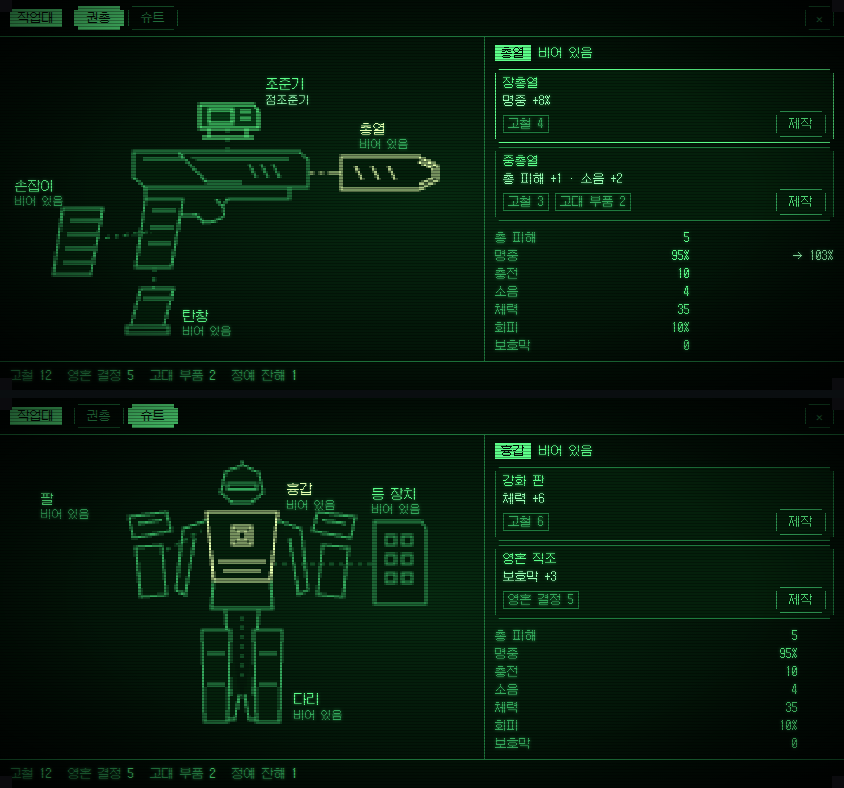
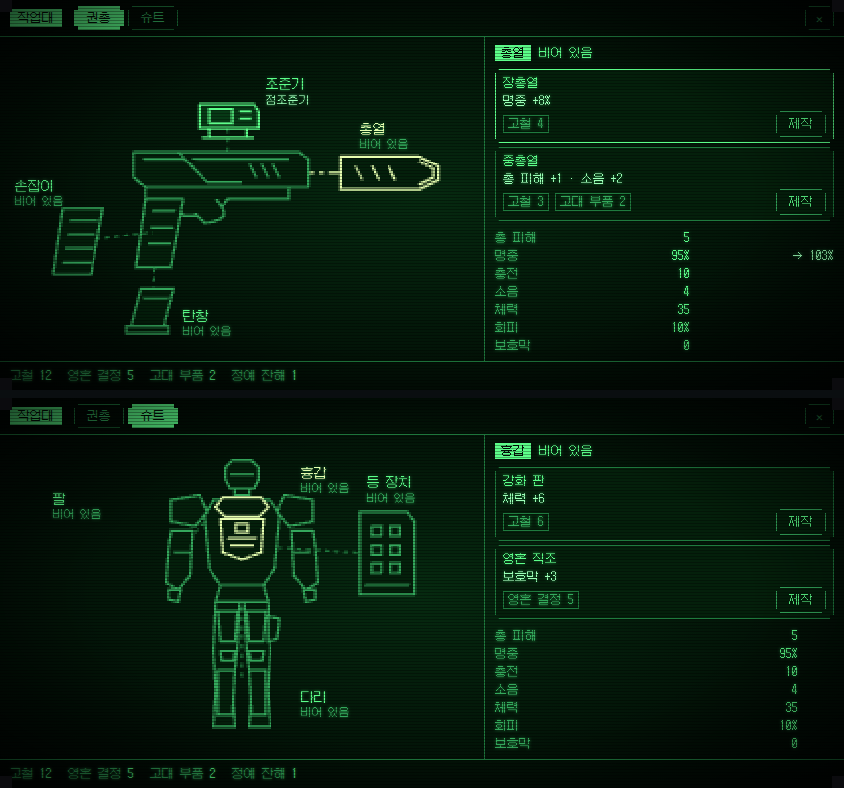
feat(ui): workbench suit redrawn after the reference outline (octagonal helmet, collar and chest plate, pauldrons, thigh pouch); finer pixel canvas; labels clear of the art

diff --git a/src/ui/grid/ship/workbenchArt.ts b/src/ui/grid/ship/workbenchArt.ts
@@ -20,21 +20,26 @@ const PISTOL: Part[] = [
     anchor: [124, 216], mount: [126, 180], callout: [150, 226] },
 ];
 
-// front view of the agent suit (as the 3D suit: helmet and visor, chest core, pauldrons, backpack lamps, greaves)
+// front view of the agent suit (after the reference outline in public/assets/ui/pip): octagonal helmet, collar and chest plate,
+// broad pauldrons, armoured limbs, a thigh pouch; the backpack floats off to the right
 const SUIT: Part[] = [
   { slot: null, paths: [
-    'M200 10 L214 16 L218 34 L208 42 L192 42 L182 34 L186 16 Z', 'M188 26 L212 26 L212 31 L188 31 Z', 'M200 10 L200 6',
-    'M180 52 L220 52 L226 132 L174 132 Z', 'M186 132 L190 204 L174 226 L194 226 L198 204 M214 132 L210 204 L226 226 L206 226 L202 204',
-    'M174 56 L150 64 L144 116 L152 120 L160 72 M226 56 L250 64 L256 116 L248 120 L240 72',
+    'M192 6 L208 6 L214 12 L214 22 L210 30 L190 30 L186 22 L186 12 Z', 'M190 18 L210 18', 'M194 30 L206 30 L206 36 L194 36 Z',
+    'M176 40 L224 40 L232 52 L228 98 L218 112 L182 112 L172 98 L168 52 Z', 'M182 112 L218 112 L222 126 L178 126 Z',
+    'M178 126 L198 126 L196 168 L192 200 L194 232 L176 232 L178 200 L176 168 Z', 'M202 126 L222 126 L224 168 L222 200 L224 232 L206 232 L208 200 L204 168 Z',
   ], anchor: [200, 90], mount: [200, 90], callout: [0, 0] },
-  { slot: 'chest', paths: ['M170 50 L230 50 L224 108 L176 108 Z', 'M192 62 L208 62 L208 78 L192 78 Z', 'M196 66 L204 66 L204 74 L196 74 Z', 'M180 92 L220 92 M184 100 L216 100'],
-    anchor: [200, 80], mount: [200, 80], callout: [238, 36] },
-  { slot: 'arms', paths: ['M104 54 L136 50 L140 66 L108 72 Z', 'M110 80 L132 78 L136 120 L114 122 Z', 'M296 54 L264 50 L260 66 L292 72 Z', 'M290 80 L268 78 L264 120 L286 122 Z', 'M112 60 L132 57 M268 57 L288 60'],
-    anchor: [122, 90], mount: [166, 66], callout: [30, 44] },
-  { slot: 'legs', paths: ['M166 150 L190 150 L188 228 L168 228 Z', 'M210 150 L234 150 L232 228 L212 228 Z', 'M170 170 L186 170 M214 170 L230 170', 'M170 196 L186 196 M214 196 L230 196'],
-    anchor: [200, 190], mount: [200, 134], callout: [244, 214] },
-  { slot: 'back', paths: ['M312 58 L352 58 L356 64 L356 128 L312 128 Z', 'M322 70 L330 70 L330 78 L322 78 Z M336 70 L344 70 L344 78 L336 78 Z', 'M322 86 L330 86 L330 94 L322 94 Z M336 86 L344 86 L344 94 L336 94 Z', 'M322 102 L330 102 L330 110 L322 110 Z M336 102 L344 102 L344 110 L336 110 Z'],
-    anchor: [334, 94], mount: [228, 94], callout: [310, 40] },
+  { slot: 'chest', paths: ['M184 38 L216 38 L222 46 L214 54 L186 54 L178 46 Z', 'M182 56 L218 56 L216 84 L200 90 L184 84 Z', 'M195 60 L205 60 L205 67 L195 67 Z', 'M188 72 L212 72 M190 78 L210 78'],
+    anchor: [200, 70], mount: [200, 70], callout: [250, 22] },
+  { slot: 'arms', paths: [
+    'M140 40 L164 36 L170 50 L160 62 L140 58 Z', 'M140 66 L158 66 L156 104 L146 116 L136 110 L138 80 Z', 'M138 116 L148 116 L146 126 L138 124 Z', 'M142 84 L156 84',
+    'M260 40 L236 36 L230 50 L240 62 L260 58 Z', 'M260 66 L242 66 L244 104 L254 116 L264 110 L262 80 Z', 'M262 116 L252 116 L254 126 L262 124 Z', 'M258 84 L244 84',
+  ], anchor: [150, 80], mount: [170, 56], callout: [40, 44] },
+  { slot: 'legs', paths: [
+    'M180 134 L196 134 L194 160 L182 160 Z', 'M204 134 L220 134 L218 160 L206 160 Z', 'M222 138 L232 140 L230 158 L222 160 Z',
+    'M182 168 L194 168 L193 176 L183 176 Z', 'M206 168 L218 168 L217 176 L207 176 Z', 'M180 184 L194 184 L192 222 L180 222 Z', 'M206 184 L220 184 L220 222 L208 222 Z',
+  ], anchor: [200, 190], mount: [200, 128], callout: [250, 212] },
+  { slot: 'back', paths: ['M300 50 L340 50 L346 58 L346 120 L300 120 Z', 'M310 62 L318 62 L318 70 L310 70 Z M326 62 L334 62 L334 70 L326 70 Z', 'M310 78 L318 78 L318 86 L310 86 Z M326 78 L334 78 L334 86 L326 86 Z', 'M310 94 L318 94 L318 102 L310 102 Z M326 94 L334 94 L334 102 L326 102 Z', 'M304 112 L342 112'],
+    anchor: [322, 86], mount: [232, 80], callout: [306, 30] },
 ];
 
 export interface ArtColors { fg: string; dim: string; line: string; warn: string; ch: string; fill: string; fitted: string }

diff --git a/src/ui/grid/ship/workbenchScreen.ts b/src/ui/grid/ship/workbenchScreen.ts
@@ -98,7 +98,7 @@ export class WorkbenchScreen {
         </div>
         <button type="button" class="wb-close" data-close aria-label="닫기">✕</button></header>
       <div class="wb-main">
-        <div class="wb-draw"><div class="wb-stage"><canvas class="wb-px" width="200" height="122"></canvas>${overlaySvg(this.tab, m.slots, sel.slot)}</div></div>
+        <div class="wb-draw"><div class="wb-stage"><canvas class="wb-px" width="240" height="146"></canvas>${overlaySvg(this.tab, m.slots, sel.slot)}</div></div>
         <aside class="wb-side">
           <div class="wb-slot"><span>${sel.label}</span>${sel.fitted ? sel.fitted.name : '비어 있음'}</div>
           <ul class="wb-opts">${opts.map((o) => this.option(o)).join('')}</ul>
